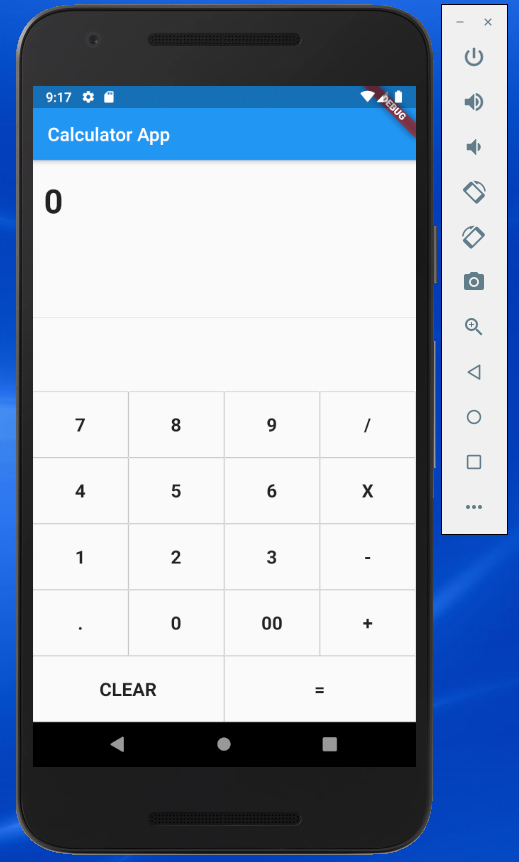
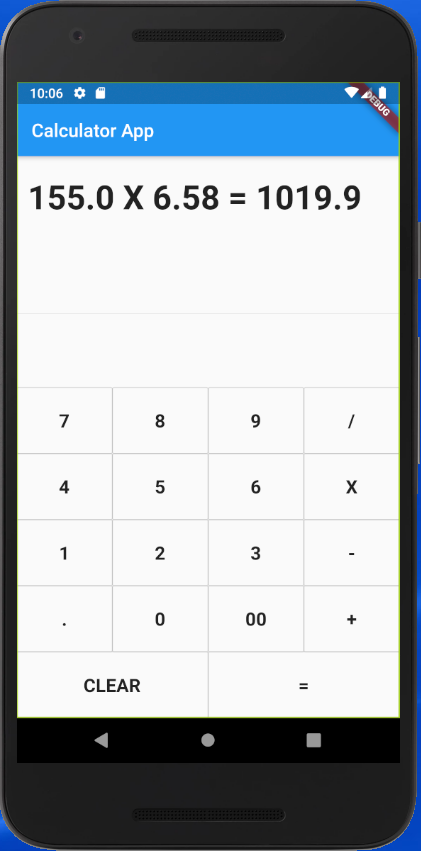
Enhance UI by adding full equation in output

diff --git a/lib/main.dart b/lib/main.dart
@@ -68,17 +68,33 @@ class _MyHomePageState extends State<MyHomePage> {
       if (operand == "/") {
         _output = (num1 / num2).toString();
       }
-      print(_output);
-      num1 = 0.0;
-      num2 = 0.0;
-      operand = "";
+      print(num1.toString() +
+          " " +
+          operand +
+          " " +
+          num2.toString() +
+          " = " +
+          _output);
     } else {
       _output = _output + buttonText;
       print(_output);
     }
 
     setState(() {
-      output = double.parse(_output).toStringAsFixed(2);
+      if (buttonText == "=") {
+        output = num1.toString() +
+            " " +
+            operand +
+            " " +
+            num2.toString() +
+            " = " +
+            _output;
+        num1 = 0.0;
+        num2 = 0.0;
+        operand = "";
+      } else {
+        output = double.parse(_output).toStringAsFixed(0);
+      }
     });
   }
 

diff --git a/README.md b/README.md
@@ -9,4 +9,4 @@ Calculator app in flutter, practice version.
 - :black_square_button: Computations like sqrt, log, etc.
 
 <br/>
-![App Interface Version 1](/UI/V1.PNG "App Interface Version 1")
+![App Interface Version 1](/UI/V1.PNG)
